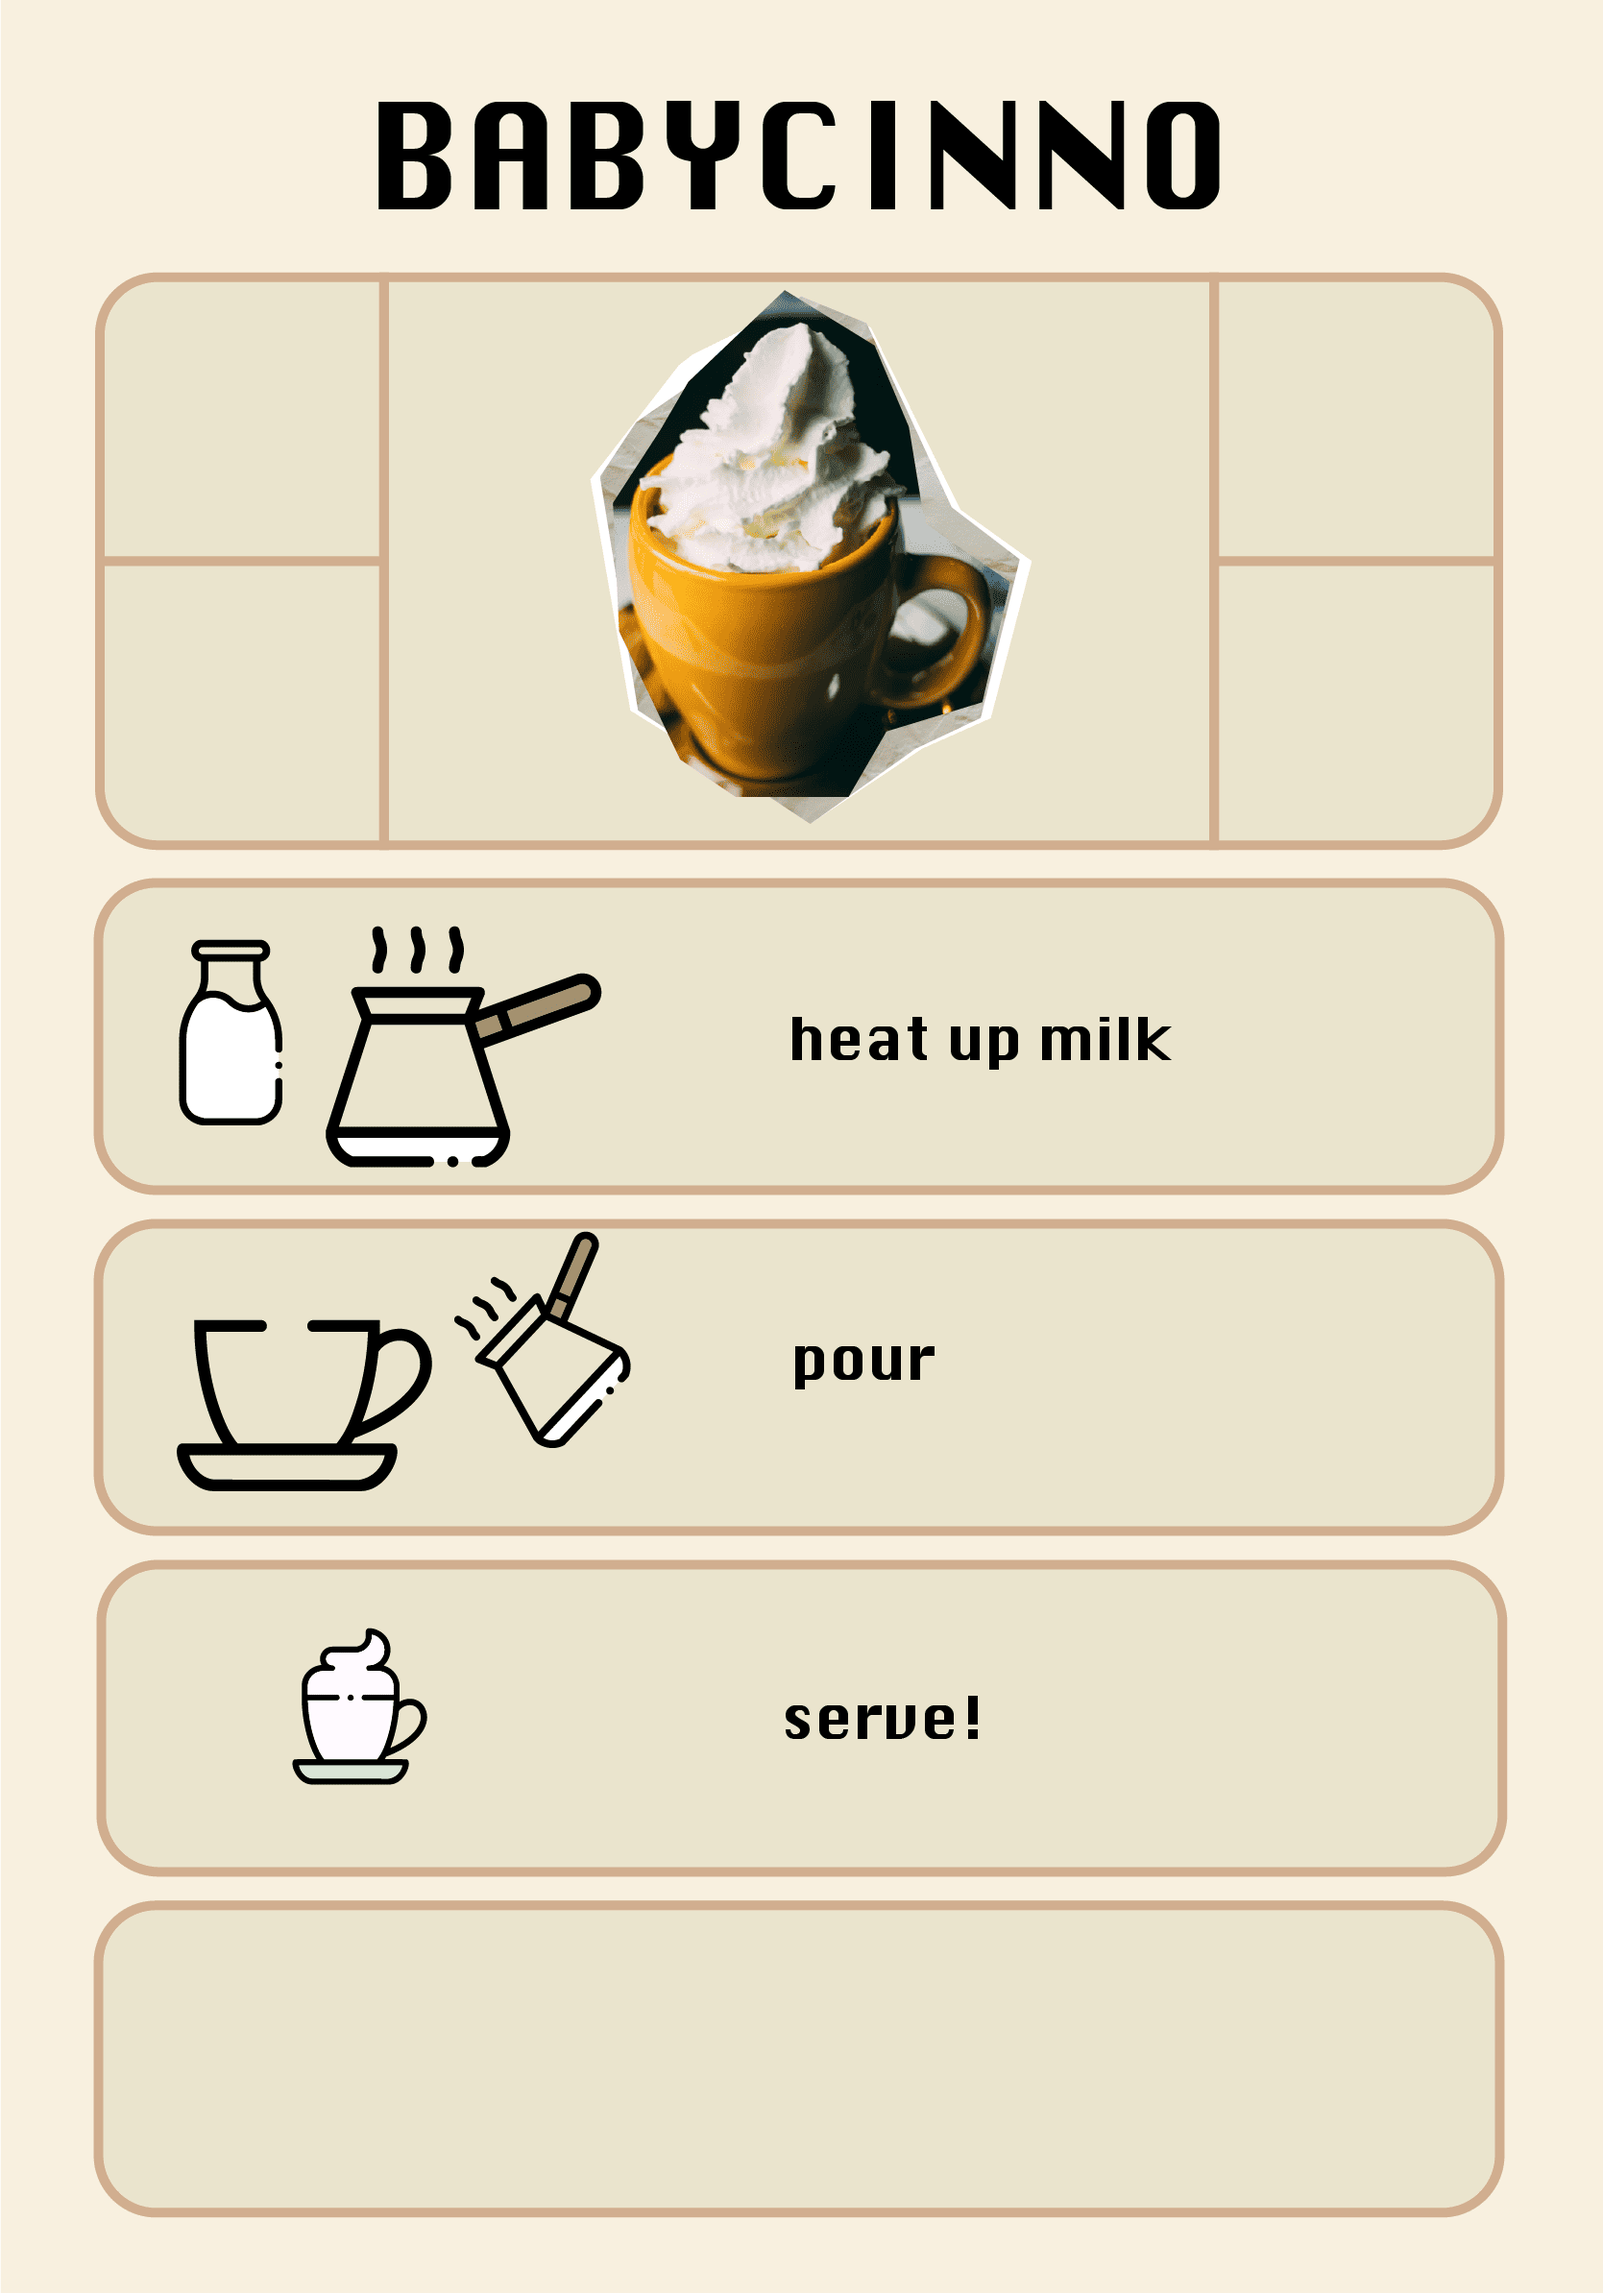
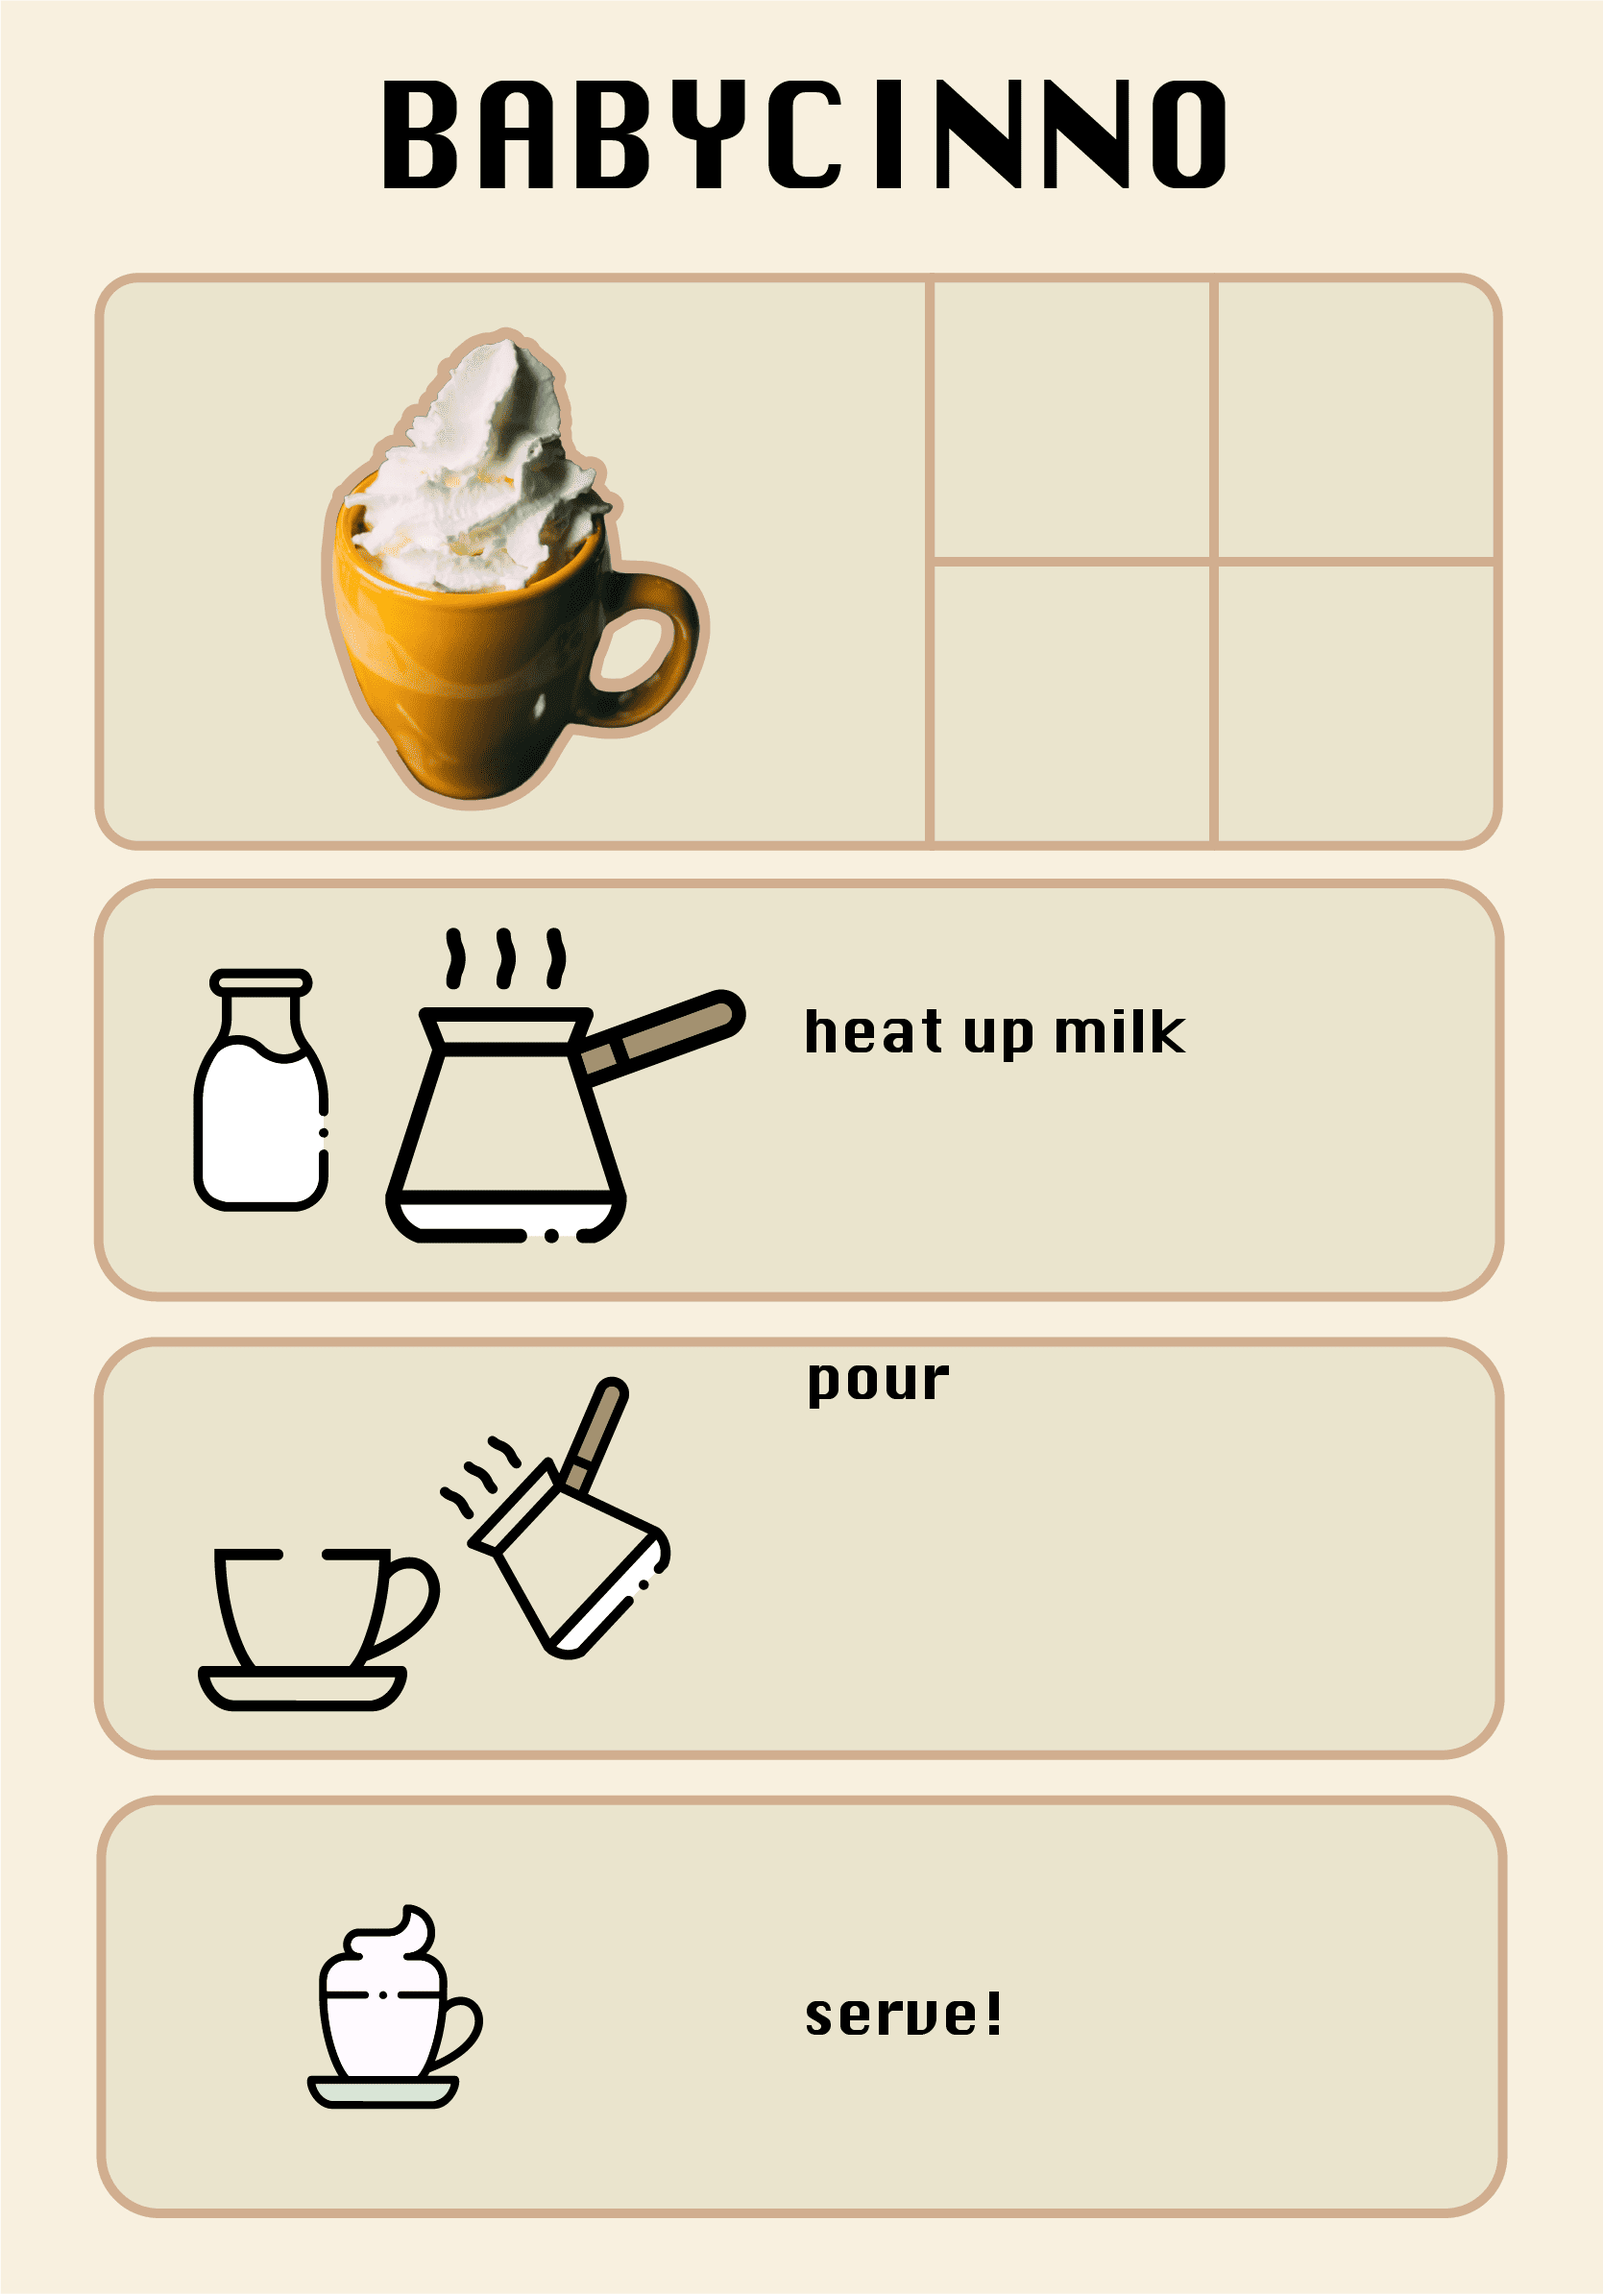
updated

diff --git a/data/styles.css b/data/styles.css
@@ -1,7 +1,8 @@
 /* =========================================
-   INSTRUCTION OVERLAY STYLES (ORIGINAL MAPPING)
+   BARISTA INSTRUCTIONS - BABYCINNO 2x2 GRID
    ========================================= */
 
+/* 1. Main Layout Wrapper */
 #instruction-wrapper {
   position: relative;
   width: 100vw;
@@ -12,16 +13,19 @@
   align-items: center;
   overflow: hidden;
   margin: 0;
+  padding: 0;
 }
 
+/* 2. Idle Text (Waiting for Task) */
 #inst-idle-text {
-  font-size: 3rem;
+  font-size: 3.5rem;
   color: #333;
   position: absolute;
-  font-family: monospace;
+  font-family: 'Courier New', Courier, monospace;
+  font-weight: bold;
 }
 
-/* The Main Background Picture */
+/* 3. The Full-Screen Poster Background */
 #inst-base-image {
   width: 100%;
   height: 100%;
@@ -29,7 +33,7 @@
   display: none;
 }
 
-/* The Container that holds the overlays */
+/* 4. The Overlay Layer */
 #overlay-container {
   position: absolute;
   width: 100%;
@@ -40,64 +44,72 @@
   pointer-events: none; 
 }
 
-/* The 4 Small Customization Boxes */
+/* 5. Icon Box Logic (The Cage) */
 .custom-box {
   position: absolute;
-  background: transparent;
   display: flex;
   justify-content: center;
   align-items: center;
-  padding: 10px; /* Original padding */
+  
+  /* Breathing room so icons don't hit the grid lines */
+  padding: 1.5%; 
+  
+  background: transparent; 
   box-sizing: border-box;
+  overflow: hidden; 
 }
 
-/* Subtle highlight glow */
+/* 6. The Actual Icon (The Image) */
+.custom-box img {
+  /* Set to 85% to match the weight of your hand-drawn icons */
+  width: 130%;    
+  height: 130%;   
+  object-fit: contain; 
+}
+
+/* 7. Subtle Glow when an icon is present */
 .custom-box.filled {
   background: rgba(255, 255, 255, 0.4); 
-  border-radius: 12px;
+  border-radius: 8px; /* Slightly sharper corners for the smaller grid */
 }
 
-.custom-box img {
-  max-width: 130%;
-  max-height: 130%;
-  object-fit: contain;
-}
+/* =========================================
+   EXACT MAPPING TO THE TOP-RIGHT 2x2 GRID
+   ========================================= */
 
-/* --- ORIGINAL COORDINATES --- */
-
-/* Top Left */
+/* Top Left Slot inside the Grid */
 #box-0 { 
-  top: 12%; 
-  left: 6.5%; 
+  top: 12.5%; 
+  left: 58.5%; 
   width: 17%; 
-  height: 12.5%; 
+  height: 12%; 
 }
 
-/* Bottom Left */
+/* Bottom Left Slot inside the Grid */
 #box-1 { 
   top: 24.5%; 
-  left: 6.5%; 
+  left: 58.5%; 
   width: 17%; 
   height: 12%; 
 }
 
-/* Top Right */
+/* Top Right Slot inside the Grid */
 #box-2 { 
-  top: 12%; 
-  right: 6.5%; 
+  top: 12.5%; 
+  right: 7%; 
   width: 17%; 
-  height: 12.5%; 
+  height: 12%; 
 }
 
-/* Bottom Right */
+/* Bottom Right Slot inside the Grid */
 #box-3 { 
   top: 24.5%; 
-  right: 6.5%; 
+  right: 7%; 
   width: 17%; 
   height: 12%; 
 }
 
-/* Special Request (Set to hidden) */
+/* Special Request logic hidden as requested */
 #inst-special-request {
   display: none;
 }

diff --git a/src/main.cpp b/src/main.cpp
@@ -55,7 +55,7 @@ void setup() {
     } 
     else if (currentState == 1) {
       // STATE 1: BABYCCINO 
-      doc["main_image"] = "/compressed_photos/babyccino.png";
+      doc["main_image"] = "/compressed_photos/Babyccino.png";
       doc["drink_name"] = "Babyccino";
       
       JsonArray icons = doc.createNestedArray("icons");
@@ -64,7 +64,7 @@ void setup() {
     } 
     else if (currentState == 2) {
       // STATE 2: BLACK AMERICANO
-      doc["main_image"] = "/compressed_photos/black_(americano).png";
+      doc["main_image"] = "/compressed_photos/black_americano.png";
       doc["drink_name"] = "Black Americano";
       
       JsonArray icons = doc.createNestedArray("icons");
